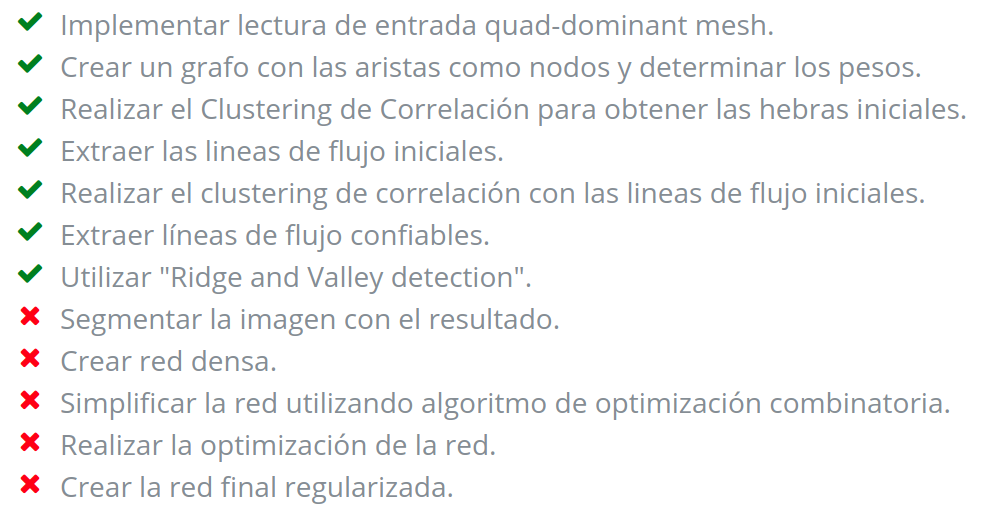
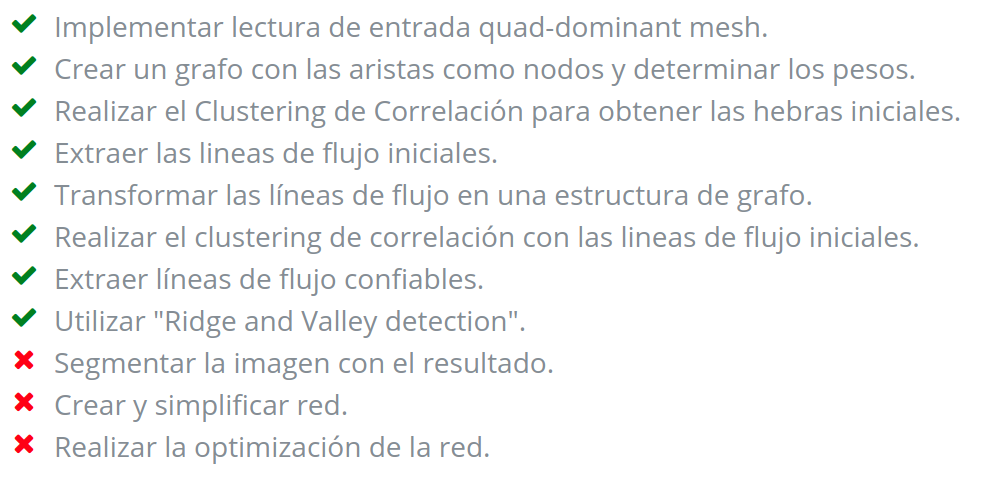
Added images to improve results visualization

Changed region(s): [[0.0, 0.0294, 0.9717, 0.8805], [0.0, 0.9099, 0.4858, 0.9686]]

diff --git a/index.html b/index.html
@@ -197,10 +197,8 @@
                 <li><i class="fa-li fa fa-check" style="color:green"></i>Extraer líneas de flujo confiables.</li>
                 <li><i class="fa-li fa fa-check" style="color:green"></i>Utilizar "Ridge and Valley detection".</li>
                 <li><i class="fa-li fa fa-times" style="color:red"></i>Segmentar la imagen con el resultado.</li>
-                <li><i class="fa-li fa fa-times" style="color:red"></i>Crear red densa.</li>
-                <li><i class="fa-li fa fa-times" style="color:red"></i>Simplificar la red utilizando algoritmo de optimización combinatoria.</li>
+                <li><i class="fa-li fa fa-times" style="color:red"></i>Crear y simplificar red.</li>
                 <li><i class="fa-li fa fa-times" style="color:red"></i>Realizar la optimización de la red.</li>
-                <li><i class="fa-li fa fa-times" style="color:red"></i>Crear la red final regularizada.</li>
             </ul>
           <h3 class="mb-0">Detalles de la implementación</h3>
           <p class="mb-5">En esta sección se mostrarán los detalles de la implementación de cada uno de los objetivos propuestos alcanzados.</p>
